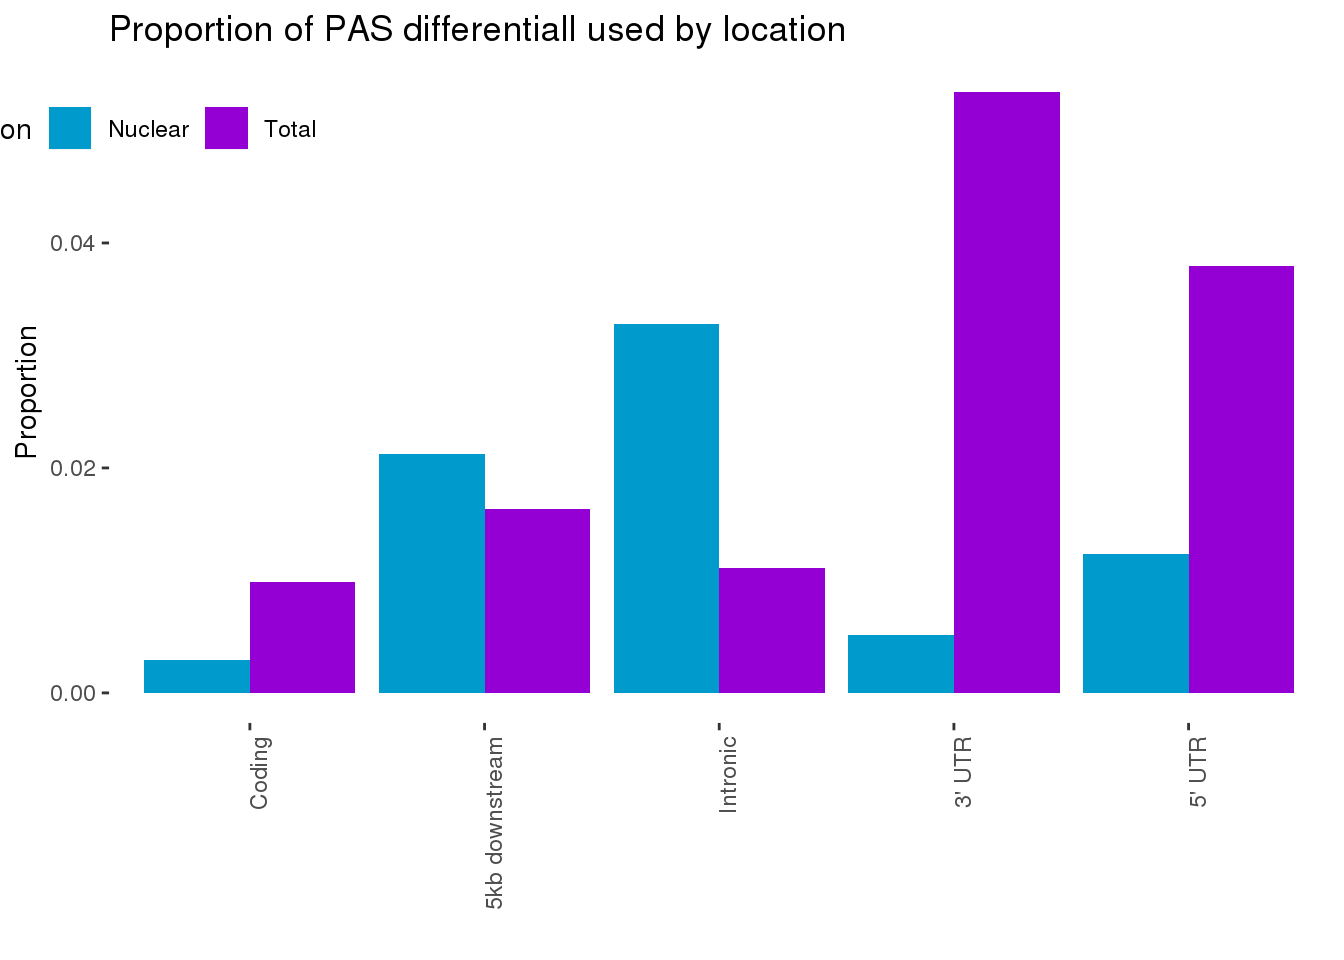
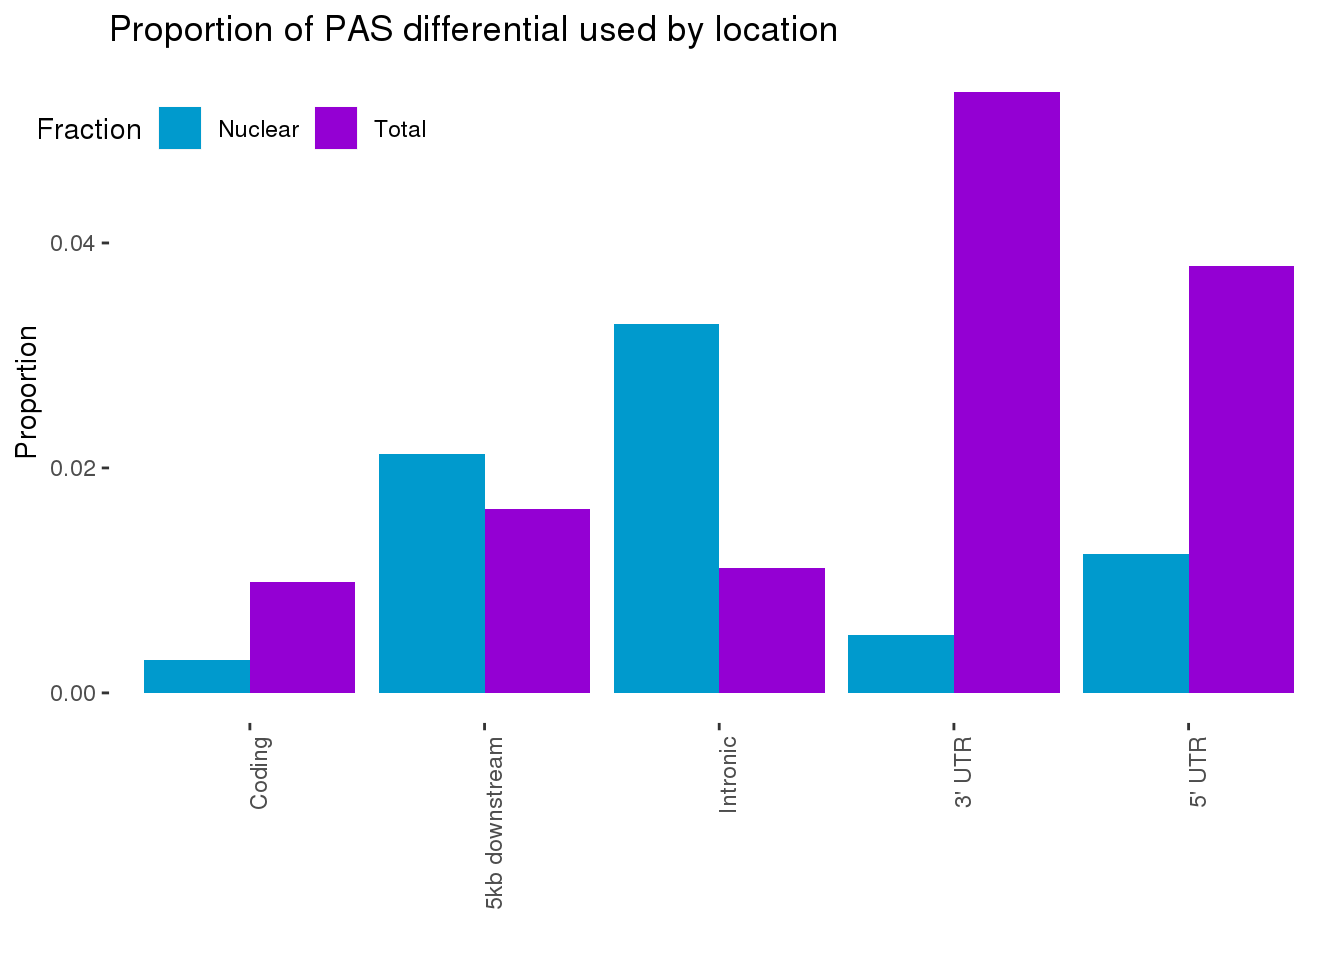
Build site.

Changed region(s): [[0.0, 0.0938, 0.3125, 0.1562], [0.4375, 0.0, 0.625, 0.0625]]

diff --git a/docs/DiffIsoAnalysis.html b/docs/DiffIsoAnalysis.html
@@ -422,10 +422,10 @@ This reproducible <a href="http://rmarkdown.rstudio.com">R Markdown</a> analysis
 <div class="panel panel-default">
 <div class="panel-heading">
 <p class="panel-title">
-<a data-toggle="collapse" data-parent="#workflowr-checks" href="#strongRepositoryversionstrongahrefhttpsgithubcombrimittlemanapaQTLtreeabd1a7371da754280383b89ff56f54244375c8cbtargetblankabd1a73a"> <span class="glyphicon glyphicon-ok text-success" aria-hidden="true"></span> <strong>Repository version:</strong> <a href="https://github.com/brimittleman/apaQTL/tree/abd1a7371da754280383b89ff56f54244375c8cb" target="_blank">abd1a73</a> </a>
+<a data-toggle="collapse" data-parent="#workflowr-checks" href="#strongRepositoryversionstrongahrefhttpsgithubcombrimittlemanapaQTLtree842be2582d36923230482d53ba372dfb9a46f08atargetblank842be25a"> <span class="glyphicon glyphicon-ok text-success" aria-hidden="true"></span> <strong>Repository version:</strong> <a href="https://github.com/brimittleman/apaQTL/tree/842be2582d36923230482d53ba372dfb9a46f08a" target="_blank">842be25</a> </a>
 </p>
 </div>
[2 lines of base64/hex data omitted]
 <div class="panel-body">
 <p>
 Great! You are using Git for version control. Tracking code development and connecting the code version to the results is critical for reproducibility. The version displayed above was the version of the Git repository at the time these results were generated. <br><br> Note that you need to be careful to ensure that all relevant files for the analysis have been committed to Git prior to generating the results (you can use <code>wflow_publish</code> or <code>wflow_git_commit</code>). workflowr only checks the R Markdown file, but you know if there are other scripts or data files that it depends on. Below is the status of the Git repository when the results were generated:
@@ -1007,6 +1007,40 @@ Message
 Rmd
 </td>
 <td>
+<a href="https://github.com/brimittleman/apaQTL/blob/842be2582d36923230482d53ba372dfb9a46f08a/analysis/DiffIsoAnalysis.Rmd" target="_blank">842be25</a>
+</td>
+<td>
+brimittleman
+</td>
+<td>
+2019-06-21
+</td>
+<td>
+fix fif
+</td>
+</tr>
+<tr>
+<td>
+html
+</td>
+<td>
+<a href="https://rawcdn.githack.com/brimittleman/apaQTL/4f2326e310ffaf47c6a9a6afc54e0985dacf93aa/docs/DiffIsoAnalysis.html" target="_blank">4f2326e</a>
+</td>
+<td>
+brimittleman
+</td>
+<td>
+2019-06-21
+</td>
+<td>
+Build site.
+</td>
+</tr>
+<tr>
+<td>
+Rmd
+</td>
+<td>
 <a href="https://github.com/brimittleman/apaQTL/blob/abd1a7371da754280383b89ff56f54244375c8cb/analysis/DiffIsoAnalysis.Rmd" target="_blank">abd1a73</a>
 </td>
 <td>
@@ -1370,12 +1404,12 @@ add diff iso
 <pre><code>This is workflowr version 1.3.0
 Run ?workflowr for help getting started</code></pre>
 <pre class="r"><code>library(tidyverse)</code></pre>
-<pre><code>── Attaching packages ───────────────────────────────────────────────────────────────────────────────────────────────────────────────── tidyverse 1.2.1 ──</code></pre>
+<pre><code>── Attaching packages ──────────────────────────────────────────────────────────────────────────────────────────────────────────────────────────────────────────────────────────────────── tidyverse 1.2.1 ──</code></pre>
 <pre><code>✔ ggplot2 3.1.1       ✔ purrr   0.3.2  
 ✔ tibble  2.1.1       ✔ dplyr   0.8.0.1
 ✔ tidyr   0.8.3       ✔ stringr 1.3.1  
 ✔ readr   1.3.1       ✔ forcats 0.3.0  </code></pre>
-<pre><code>── Conflicts ──────────────────────────────────────────────────────────────────────────────────────────────────────────────────── tidyverse_conflicts() ──
+<pre><code>── Conflicts ─────────────────────────────────────────────────────────────────────────────────────────────────────────────────────────────────────────────────────────────────────── tidyverse_conflicts() ──
 ✖ dplyr::filter() masks stats::filter()
 ✖ dplyr::lag()    masks stats::lag()</code></pre>
 <pre class="r"><code>library(reshape2)</code></pre>
@@ -1807,7 +1841,7 @@ brimittleman
 <pre class="r"><code>effectsize_deltaPAUProp_both= effectsize_deltaPAUProp_nuc %&gt;% inner_join(effectsize_deltaPAUProp_tot, by=c(&quot;loc&quot;,&quot;nloc&quot;)) %&gt;% dplyr::rename(Nuclear=Proportion_nuc, Total=Proportion_tot) %&gt;% select(loc, Nuclear, Total) 
 effectsize_deltaPAUProp_both_melt= effectsize_deltaPAUProp_both %&gt;% melt(id.vars=&quot;loc&quot;, variable.name=&quot;Fraction&quot;, value.name = &quot;Proportion&quot;) 
 effectsize_deltaPAUProp_both_melt$Fraction=as.character(effectsize_deltaPAUProp_both_melt$Fraction)</code></pre>
-<pre class="r"><code>ggplot(effectsize_deltaPAUProp_both_melt, aes(x=loc, y=Proportion, by=Fraction, fill=Fraction)) + geom_bar(stat=&quot;identity&quot;, position=&quot;dodge&quot;) + scale_fill_manual(values=c(&quot;deepskyblue3&quot;,&quot;darkviolet&quot;)) + labs(title=&quot;Proportion of PAS differentiall used by location&quot;,x=&quot;&quot;) +scale_x_discrete(labels = c(&#39;Coding&#39;,&#39;5kb downstream&#39;,&#39;Intronic&#39;,&quot;3&#39; UTR&quot;, &quot;5&#39; UTR&quot;)) +theme(axis.text.x = element_text(angle = 90, hjust = 1)) +  theme(legend.position = c(0.01,.9), legend.direction = &quot;horizontal&quot;) +  theme(panel.background = element_blank())</code></pre>
+<pre class="r"><code>ggplot(effectsize_deltaPAUProp_both_melt, aes(x=loc, y=Proportion, by=Fraction, fill=Fraction)) + geom_bar(stat=&quot;identity&quot;, position=&quot;dodge&quot;) + scale_fill_manual(values=c(&quot;deepskyblue3&quot;,&quot;darkviolet&quot;)) + labs(title=&quot;Proportion of PAS differential used by location&quot;,x=&quot;&quot;) +scale_x_discrete(labels = c(&#39;Coding&#39;,&#39;5kb downstream&#39;,&#39;Intronic&#39;,&quot;3&#39; UTR&quot;, &quot;5&#39; UTR&quot;)) +theme(axis.text.x = element_text(angle = 90, hjust = 1)) +  theme(legend.position = c(0.1,.9), legend.direction = &quot;horizontal&quot;) +  theme(panel.background = element_blank())</code></pre>
 <p><img src="figure/DiffIsoAnalysis.Rmd/unnamed-chunk-32-1.png" width="672" style="display: block; margin: auto;" /></p>
 <p>
 <button type="button" class="btn btn-default btn-xs btn-workflowr btn-workflowr-fig" data-toggle="collapse" data-target="#fig-unnamed-chunk-32-1">
@@ -1831,6 +1865,17 @@ Date
 </tr>
 </thead>
 <tbody>
+<tr>
+<td>
+<a href="https://github.com/brimittleman/apaQTL/blob/4f2326e310ffaf47c6a9a6afc54e0985dacf93aa/docs/figure/DiffIsoAnalysis.Rmd/unnamed-chunk-32-1.png" target="_blank">4f2326e</a>
+</td>
+<td>
+brimittleman
+</td>
+<td>
+2019-06-21
+</td>
+</tr>
 <tr>
 <td>
 <a href="https://github.com/brimittleman/apaQTL/blob/ae5c5a1a01a0f17c7e3e933df8ca97fb766903b5/docs/figure/DiffIsoAnalysis.Rmd/unnamed-chunk-32-1.png" target="_blank">ae5c5a1</a>
@@ -2129,7 +2174,7 @@ brimittleman
 <pre class="r"><code>summary(effectsize$logef)</code></pre>
 <pre><code>    Min.  1st Qu.   Median     Mean  3rd Qu.     Max. 
 -2.44401 -0.33487 -0.01384  0.00000  0.34328  2.47805 </code></pre>
-<pre class="r"><code>ggplot(effectsize_length_cat, aes(x=PercLength, by=fraction, fill=fraction))+ geom_histogram(,bins=50)  + labs(title=&quot;Location of differentially used PAS \nwithin a gene body&quot;, fill=&quot;Fraction&quot;, y=&quot;Number of PAS&quot;, x=&quot;Percent of Gene Length&quot;)+scale_fill_manual(values=c(&quot;deepskyblue3&quot;,&quot;darkviolet&quot;),labels = c(&quot;Nuclear&quot;, &quot;Total&quot;))+ theme(legend.position = c(0.01,.9), legend.direction = &quot;horizontal&quot;)+  theme(panel.background = element_blank())</code></pre>
+<pre class="r"><code>ggplot(effectsize_length_cat, aes(x=PercLength, by=fraction, fill=fraction))+ geom_histogram(,bins=50)  + labs(title=&quot;Location of differentially used PAS \nwithin a gene body&quot;, fill=&quot;Fraction&quot;, y=&quot;Number of PAS&quot;, x=&quot;Percent of Gene Length&quot;)+scale_fill_manual(values=c(&quot;deepskyblue3&quot;,&quot;darkviolet&quot;),labels = c(&quot;Nuclear&quot;, &quot;Total&quot;))+ theme(legend.position = c(0.1,.9), legend.direction = &quot;horizontal&quot;)+  theme(panel.background = element_blank())</code></pre>
 <p><img src="figure/DiffIsoAnalysis.Rmd/unnamed-chunk-46-1.png" width="672" style="display: block; margin: auto;" /></p>
 <p>
 <button type="button" class="btn btn-default btn-xs btn-workflowr btn-workflowr-fig" data-toggle="collapse" data-target="#fig-unnamed-chunk-46-1">
@@ -2153,6 +2198,17 @@ Date
 </tr>
 </thead>
 <tbody>
+<tr>
+<td>
+<a href="https://github.com/brimittleman/apaQTL/blob/4f2326e310ffaf47c6a9a6afc54e0985dacf93aa/docs/figure/DiffIsoAnalysis.Rmd/unnamed-chunk-46-1.png" target="_blank">4f2326e</a>
+</td>
+<td>
+brimittleman
+</td>
+<td>
+2019-06-21
+</td>
+</tr>
 <tr>
 <td>
 <a href="https://github.com/brimittleman/apaQTL/blob/ae5c5a1a01a0f17c7e3e933df8ca97fb766903b5/docs/figure/DiffIsoAnalysis.Rmd/unnamed-chunk-46-1.png" target="_blank">ae5c5a1</a>
